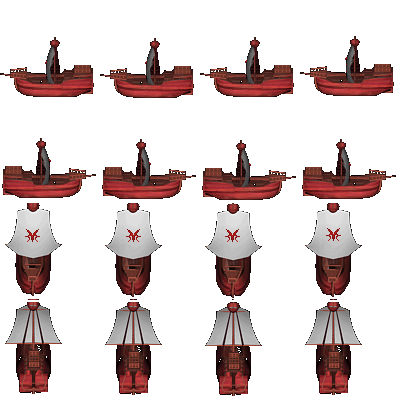
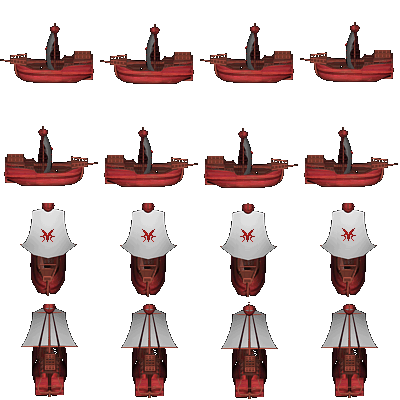
Colisiones dinamicas, cambio de skin OK
quedaron andando las colisiones segun el tamaño del personaje, cambio de skin listo, hasta aca deberia llegar la rama

diff --git a/public/index.js b/public/index.js
@@ -1,8 +1,7 @@
 const mapImage = new Image();
 mapImage.src = "/snowy-sheet.png";
 
-let pjImage 
-
+let pjImage
 const santaImage = new Image();
 santaImage.src = "/santa.png";
 
@@ -15,6 +14,63 @@ const canvasEl = document.getElementById("canvas");
 canvasEl.width = window.innerWidth * 0.5;
 canvasEl.height = window.innerHeight * 0.6;
 const canvas = canvasEl.getContext("2d");
+
+
+
+
+let adjust = {
+  link: {
+    w: 40,
+    h: 50,
+    stand:{
+      rowUp:6,
+      up: [0],
+      rowDown:0,
+      down: [0,0,0,0,0,0,0,0,0,0,0,0,0,0,0,0,0,0,0,2],
+      rowLeft:1,
+      left: [0,0,0,0,0,0,0,0,0,0,0,0,0,0,0,0,0,0,0,2],
+      rowRight:3,
+      right: [0,0,0,0,0,0,0,0,0,0,0,0,0,0,0,0,0,0,0,2],
+    },
+    walk:{
+      rowUp:6,
+      up: [1, 2, 3, 4, 5, 6, 7, 8, 9],
+      rowDown:4,
+      down: [1, 2, 3, 4, 5, 6, 7, 8, 9],
+      rowLeft:5,
+      left: [1, 2, 3, 4, 5, 6, 7, 8, 9],
+      rowRight:7,
+      right: [9, 8, 7, 6, 5, 4, 3, 2, 1],
+    },
+  },
+  barca: {
+     w: 100,
+     h: 100,
+     stand:{
+      rowUp:3,
+      up: [1, 2, 3],
+      rowDown:2,
+      down: [1, 2, 3],
+      rowLeft:0,
+      left: [1, 2, 3],
+      rowRight:1,
+      right: [1, 2, 3],
+    },
+     walk:{
+       rowUp:3,
+       up: [1, 2, 3],
+       rowDown:2,
+       down: [1, 2, 3],
+       rowLeft:0,
+       left: [1, 2, 3],
+       rowRight:1,
+       right: [1,2,3],
+     }
+     },
+
+}
+
+
 
 const socket = io();
 
@@ -35,11 +91,15 @@ const uid = Math.floor(Math.random() * 1000000);
 muteButton.addEventListener("click", () => {
   if (isPlaying) {
     //localTracks.audioTrack.setEnabled(false);
-    muteButton.innerText = "unmute";
+    pj = personajes.find(pj => pj.skin === "link")
+    pjImage.src = "/" + pj.info.name + ".png";
+    muteButton.innerText = "Barca";
     socket.emit("mute", true);
   } else {
     // localTracks.audioTrack.setEnabled(true);
-    muteButton.innerText = "mute";
+    pj = personajes.find(pj => pj.skin === "barca")
+    pjImage.src = "/" + pj.info.name + ".png";
+    muteButton.innerText = "Link";
     socket.emit("mute", false);
   }
   isPlaying = !isPlaying;
@@ -91,6 +151,7 @@ let dataTile
 let players = [];
 let snowballs = [];
 let ultimoFrame = 0
+let personajes
 
 let TILES_IN_ROW_PJ
 let TILES_IN_COL_PJ
@@ -109,11 +170,11 @@ socket.on("map", (loadedMap) => {
   groundMap = loadedMap.ground;
   decalMap = loadedMap.decal;
 });
-socket.on("pj", (personajes) => {
-  pj = personajes.find(pj => pj.skin === "link")
-  console.log(pj.info.name)
- pjImage = new Image();
-pjImage.src = "/"+pj.info.name+".png";
+socket.on("pj", (pjs) => {
+  personajes = pjs
+  pj = personajes.find(pj => pj.skin === "barca")
+  pjImage = new Image();
+  pjImage.src = "/" + pj.info.name + ".png";
 });
 
 socket.on("players", (serverPlayers) => {
@@ -166,6 +227,8 @@ window.addEventListener("keydown", (e) => {
   if (["a", "s", "w", "d"].includes(e.key) && walkSnow.paused) {
     inputs["quieto"] = false
     inputs["ultimoFrame"] = ultimoFrame
+    inputs["w"] = adjust[pj.skin].w
+    inputs["h"] = adjust[pj.skin].h
     // walkSnow.play();
   }
   socket.emit("inputs", inputs);
@@ -183,6 +246,8 @@ window.addEventListener("keyup", (e) => {
   }
   if (["a", "s", "w", "d"].includes(e.key)) {
     inputs["quieto"] = true
+    inputs["w"] = adjust[pj.skin].w
+    inputs["h"] = adjust[pj.skin].h
     walkSnow.pause();
     walkSnow.currentTime = 0;
   }
@@ -204,8 +269,8 @@ function loop() {
   let cameraX = 0;
   let cameraY = 0;
   if (myPlayer) {
-    cameraX = parseInt(myPlayer.x - canvasEl.width / 2) + (40 / 2);
-    cameraY = parseInt(myPlayer.y - canvasEl.height / 2) + (50 / 2);
+    cameraX = parseInt(myPlayer.x - canvasEl.width / 2) //+ (resize[pj.skin].w / 2);
+    cameraY = parseInt(myPlayer.y - canvasEl.height / 2) //+ (resize[pj.skin].h / 2);
   }
 
   const TILES_IN_ROW = 8;
@@ -254,83 +319,85 @@ function loop() {
   for (const player of players) {
     let row = 0
     let col = 0
-    
+
     if (player.quieto) {
-      
-       switch (player.mirando) {
-         case "up":
-           row = 2
-           col = 0
-          //  row = 3
-          //  col = 0
-           break;
-         case "down":
-           row = 0
-           col = 0
-          //  row = 2
-          //  col = 0
-           break;
-         case "left":
-           row = 1
-           col = 0
-          //  row = 0
-          //  col = 0
-           break;
-         case "right":
-           row = 3
-           col = 0
-          //  row = 1
-          //  col = 0
-           break;
-       }
-      
-     } else {
 
-        switch (player.mirando) {
-          case "up":
-            //animacion arriba
-  //          const walkUp = [0,1,2]
-            const walkUp = [1,2,3,4,5,6,7,8,9]
-            row =6 
-            col = walkUp[ultimoFrame] || 0
-            ultimoFrame = ultimoFrame<walkUp.length?ultimoFrame + 1:0
-            break;
+      switch (player.mirando) {
+        case "up":
+          const walkUp =adjust[pj.skin].stand.up
+          row = adjust[pj.skin].stand.rowUp
+          col = walkUp[ultimoFrame] || 0
+          ultimoFrame = ultimoFrame < walkUp.length ? ultimoFrame + 1 : 0
+          break;
 
-         case "down":
-           //animacion abajo  
-          // const walkDown = [0,1,2]
-           const walkDown = [1,2,3,4,5,6,7,8,9]
-           row = 4
-           col = walkDown[ultimoFrame]|| 0
-           ultimoFrame = ultimoFrame<walkDown.length?ultimoFrame + 1:0
-           break;
+        case "down":
+          //animacion abajo  
+          const walkDown = adjust[pj.skin].stand.down
+          row = adjust[pj.skin].stand.rowDown
+          col = walkDown[ultimoFrame] || 0
+          ultimoFrame = ultimoFrame < walkDown.length ? ultimoFrame + 1 : 0
+          break;
 
-          case "left":
-            //animacion izquierda
-           // const walkLeft = [0,1,2]
-            const walkLeft = [1,2,3,4,5,6,7,8,9]
-            row = 5
-            col = walkLeft[ultimoFrame]|| 0
-            ultimoFrame =ultimoFrame<walkLeft.length?ultimoFrame + 1:0
-            break;
+        case "left":
+          //animacion izquierda
+          const walkLeft = adjust[pj.skin].stand.left
+          row = adjust[pj.skin].stand.rowLeft
+          col = walkLeft[ultimoFrame] || 0
+          ultimoFrame = ultimoFrame < walkLeft.length ? ultimoFrame + 1 : 0
+          break;
 
-          case "right":
-            //animacion derecha
-         //   const walkRight = [0,1,2]
-            const walkRight = [9,8,7,6,5,4,3,2,1]
-            row = 7 
-            col = walkRight[ultimoFrame] || 0
-            ultimoFrame = ultimoFrame<walkRight.length?ultimoFrame + 1:0
-            break;
-        }
-     }
+        case "right":
+          //animacion derecha
+          const walkRight = adjust[pj.skin].stand.right
+          row =  adjust[pj.skin].stand.rowRight
+          col = walkRight[ultimoFrame] || 0
+          ultimoFrame = ultimoFrame < walkRight.length ? ultimoFrame + 1 : 0
+          break;
+      }
+
+    } else {
+
+      switch (player.mirando) {
+        case "up":
+          const walkUp =adjust[pj.skin].walk.up
+          row = adjust[pj.skin].walk.rowUp
+          col = walkUp[ultimoFrame] || 0
+          ultimoFrame = ultimoFrame < walkUp.length ? ultimoFrame + 1 : 0
+          break;
+
+        case "down":
+          //animacion abajo  
+          const walkDown = adjust[pj.skin].walk.down
+          row = adjust[pj.skin].walk.rowDown
+          col = walkDown[ultimoFrame] || 0
+          ultimoFrame = ultimoFrame < walkDown.length ? ultimoFrame + 1 : 0
+          break;
+
+        case "left":
+          //animacion izquierda
+          const walkLeft = adjust[pj.skin].walk.left
+          row = adjust[pj.skin].walk.rowLeft
+          col = walkLeft[ultimoFrame] || 0
+          ultimoFrame = ultimoFrame < walkLeft.length ? ultimoFrame + 1 : 0
+          break;
+
+        case "right":
+          //animacion derecha
+          const walkRight = adjust[pj.skin].walk.right
+          row =  adjust[pj.skin].walk.rowRight
+          col = walkRight[ultimoFrame] || 0
+          ultimoFrame = ultimoFrame < walkRight.length ? ultimoFrame + 1 : 0
+          break;
+      }
+    }
     // console.log( pj.info)
     TILES_IN_ROW_PJ = pj.info.rows
     TILES_IN_COL_PJ = pj.info.cols
     PJ_SIZE_W = pj.info.tileWidth
     PJ_SIZE_H = pj.info.tileHeight
+
     let { id } = pj.pj2D[row][col] ?? { id: undefined };
-   
+
     const imageRow = parseInt(id / TILES_IN_ROW_PJ);
     const imageCol = id % TILES_IN_ROW_PJ;
 
@@ -341,17 +408,18 @@ function loop() {
       imageRow * PJ_SIZE_H,
       PJ_SIZE_W,
       PJ_SIZE_H,
-      player.x - cameraX ,
-      player.y - cameraY ,
-      40,
-      50
+      player.x - cameraX - adjust[pj.skin].w / 2,
+      player.y - cameraY - adjust[pj.skin].h / 2,
+      adjust[pj.skin].w,
+      adjust[pj.skin].h
     );
     //canvas.drawImage(santaImage, player.x - cameraX, player.y - cameraY);
     canvas.fillStyle = 'black'
     canvas.fillStyle = "#FF0000";
     canvas.font = "bold 12px arial";
-    console.log(player.nombre)
-    canvas.fillText(player.nombre, player.x - cameraX +5 , player.y - cameraY +PJ_SIZE_H/1.5)
+    canvas.textAlign = "center"
+  
+    canvas.fillText(player.nombre, player.x - cameraX, (player.y - cameraY - adjust[pj.skin].h / 2) + adjust[pj.skin].h + 15)
 
     if (!player.isMuted) {
       //   canvas.drawImage(
@@ -393,5 +461,5 @@ function loop() {
 
 }
 setInterval(() => {
- loop();
-}, 80 );
+  loop();
+}, 80);

diff --git a/src/index.js b/src/index.js
@@ -24,8 +24,7 @@ const inputsMap = {};
 let ground2D, decal2D;
 
 let pj2D
-let dataTiles
-let pjDB = ["link", "barca", "link", "link"]
+let pjDB = ["link", "barca"]
 
 
 function isColliding(rect1, rect2) {
@@ -41,21 +40,21 @@ function isCollidingWithMap(player) {
   for (let row = 0; row < decal2D.length; row++) {
     for (let col = 0; col < decal2D[0].length; col++) {
       const tile = decal2D[row][col];
-
+     
       if (
         tile &&
         isColliding(
           {
-            x: player.x +20,
-            y: player.y +45,
-            w: 5,
-            h: 10,
+            x: player.x,
+            y: player.y,
+            w: 0,
+            h: 0,
           },
           {
-            x: col * TILE_SIZE,
-            y: row * TILE_SIZE,
-            w: TILE_SIZE,
-            h: TILE_SIZE,
+            x: col * TILE_SIZE -TILE_SIZE/2,
+            y: row * TILE_SIZE -TILE_SIZE,
+            w: TILE_SIZE*2,
+            h: TILE_SIZE*2,
           }
         )
       ) {
@@ -92,6 +91,9 @@ function tick(delta) {
       player.mirando = "right"
     }
 
+    player.w = inputs.w ||0
+    player.h = inputs.h ||0
+    
     if (inputs.up || inputs.down || inputs.left || inputs.right) {
       player.quieto = false
       player.ultimoFrame = inputs.ultimoFrame
@@ -164,6 +166,8 @@ async function main() {
       quieto: true,
       ultimoFrame: 0,
       skin: "link",
+      w:0,
+      h:0,
       nombre: "El Vittor"
     });
 

diff --git a/public/index.html b/public/index.html
@@ -31,7 +31,7 @@
       <canvas id="canvas"></canvas>
       <div>
 
-        <button id="mute">mute</button>
+        <button id="mute">Link</button>
       </div>
     </div>
 
